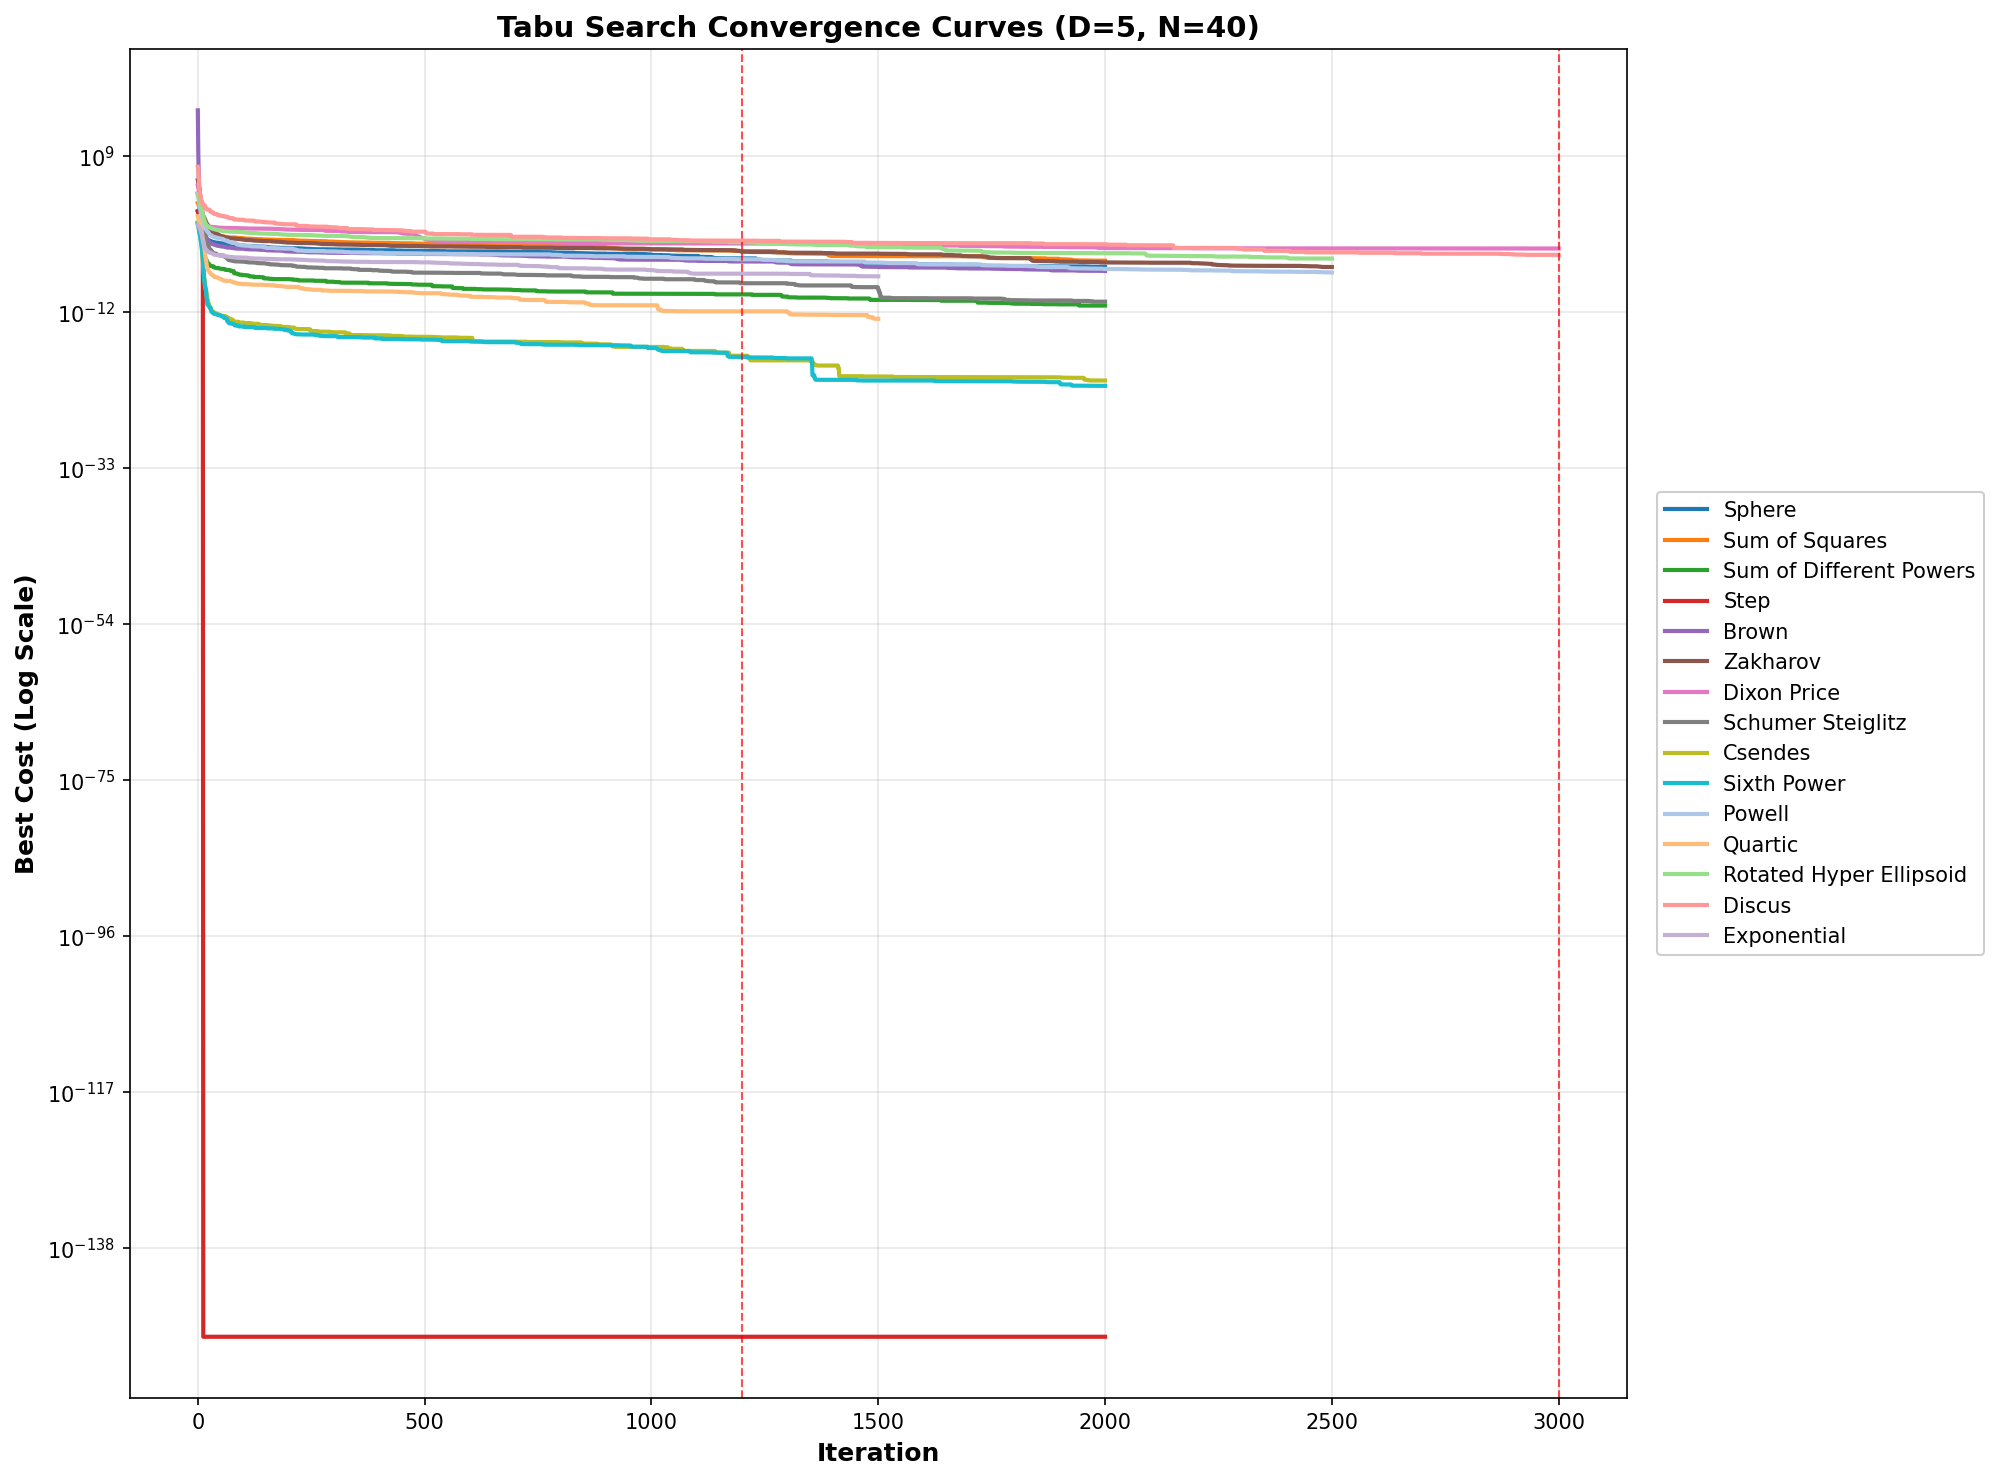
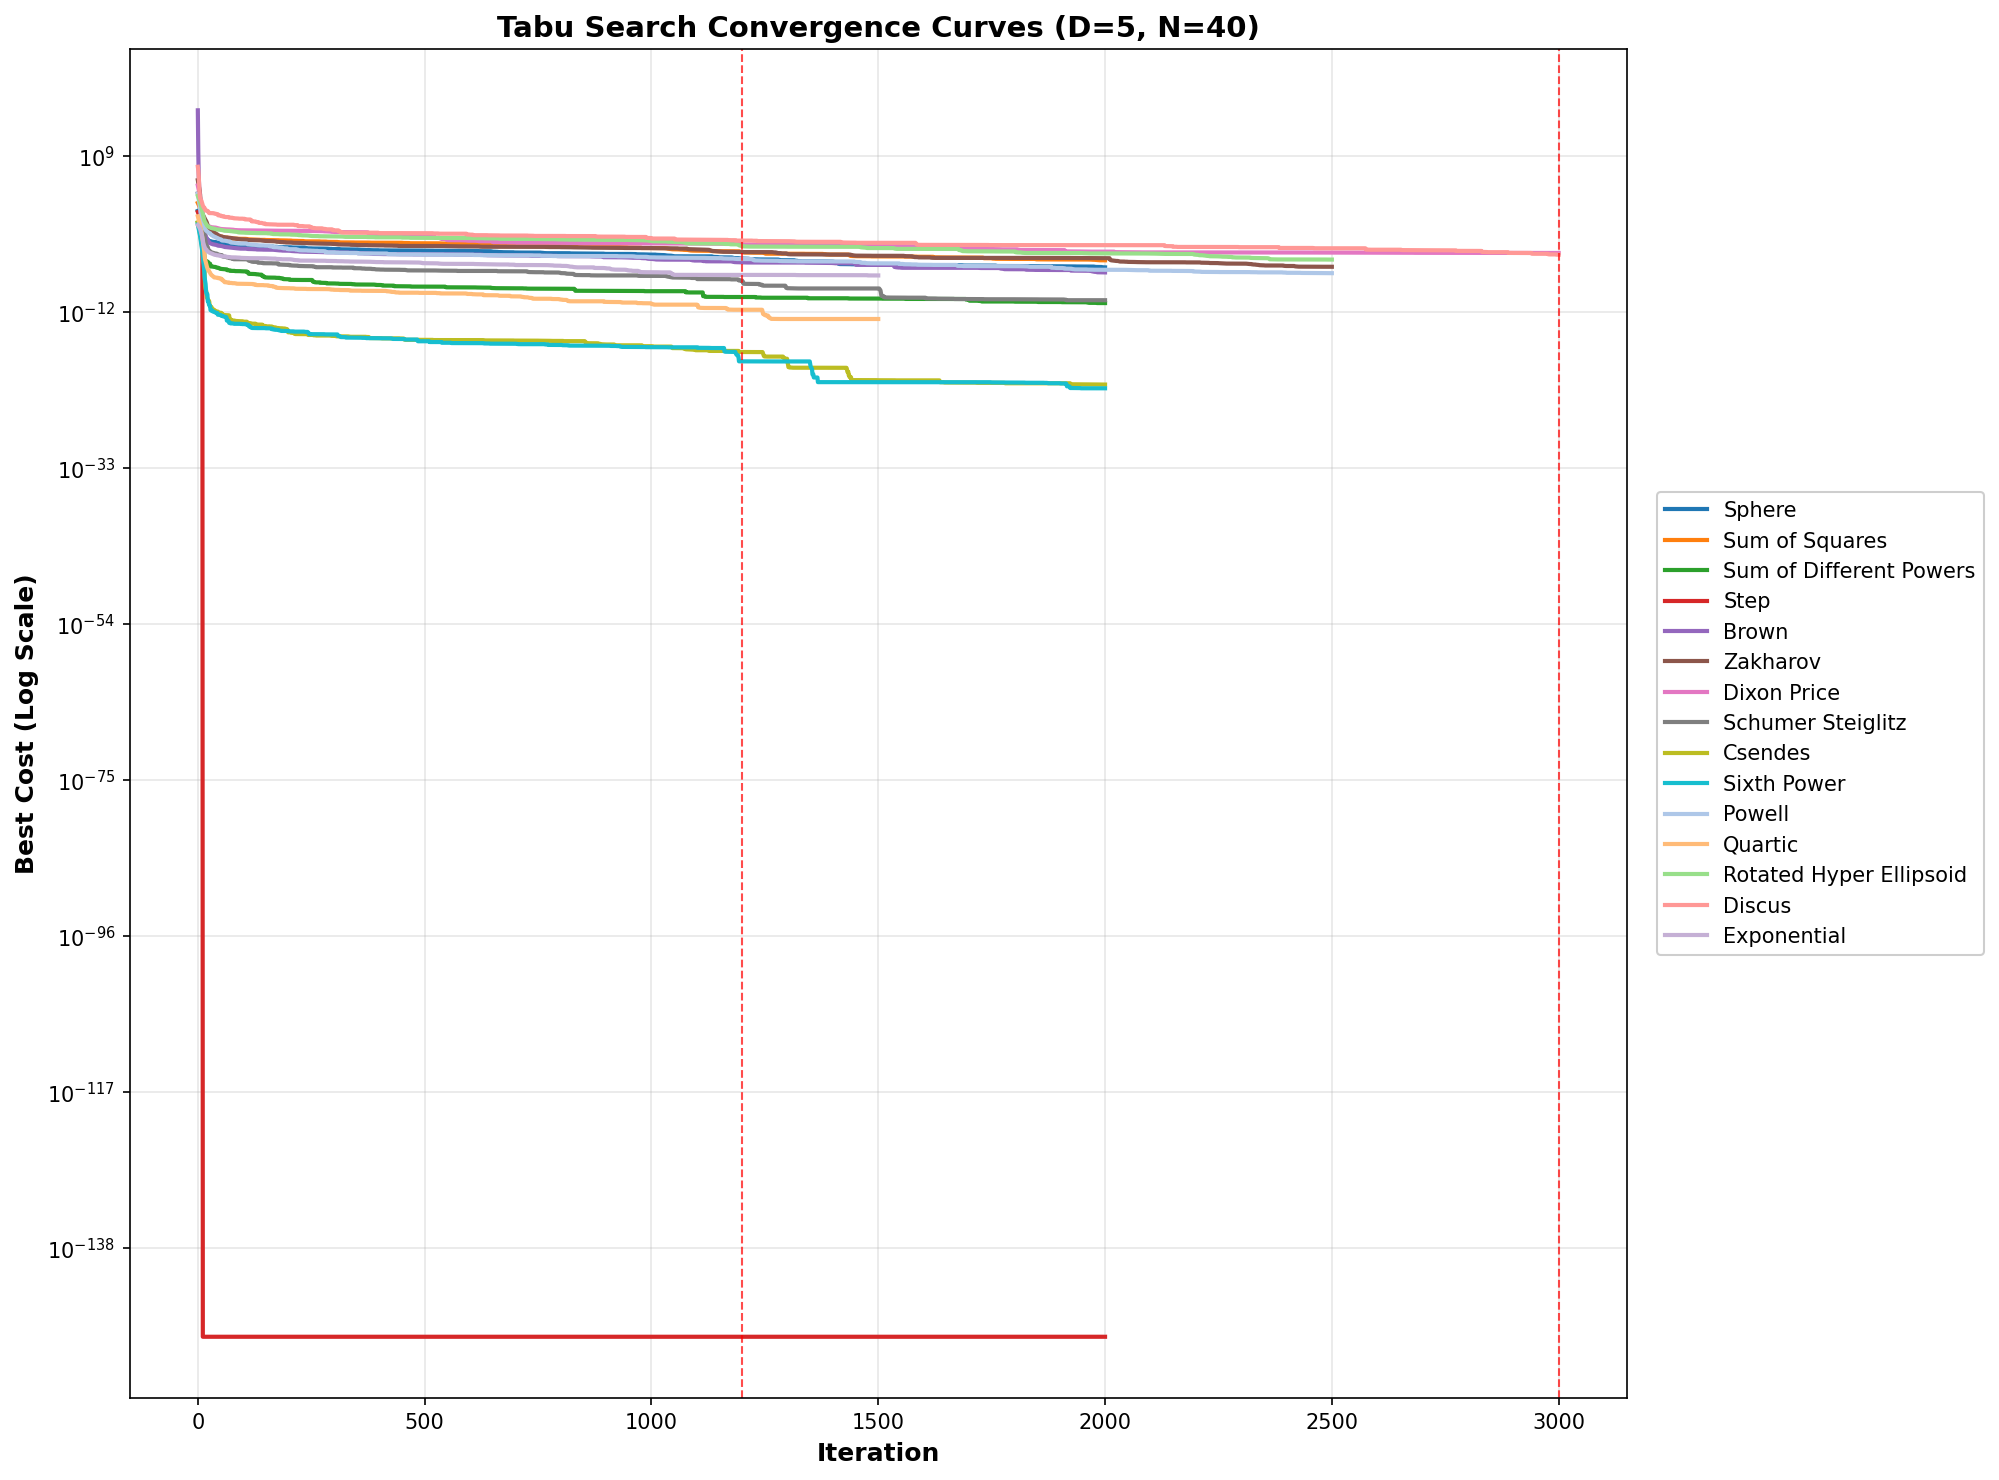
fix: added randomity in selection of best among multiple same best neighbours

Changed region(s): [[0.093, 0.1554, 0.7754, 0.2486], [0.4032, 0.2486, 0.5583, 0.2797]]

diff --git a/tabu.py b/tabu.py
@@ -100,6 +100,10 @@ def tabu_search(func, x0, tenure=7, max_iter=100, bounds=None, neighbors_size=20
             
             neighbors.append((new_solution, new_objective_value, position_hash))
         
+        # Shuffle neighbors to break ties randomly (helps avoid local minima)
+        # Since sort is stable, this ensures random selection among equal best values
+        np.random.shuffle(neighbors)
+
         # Sort by objective value (minimization)
         neighbors.sort(key=lambda t: t[1])
         
